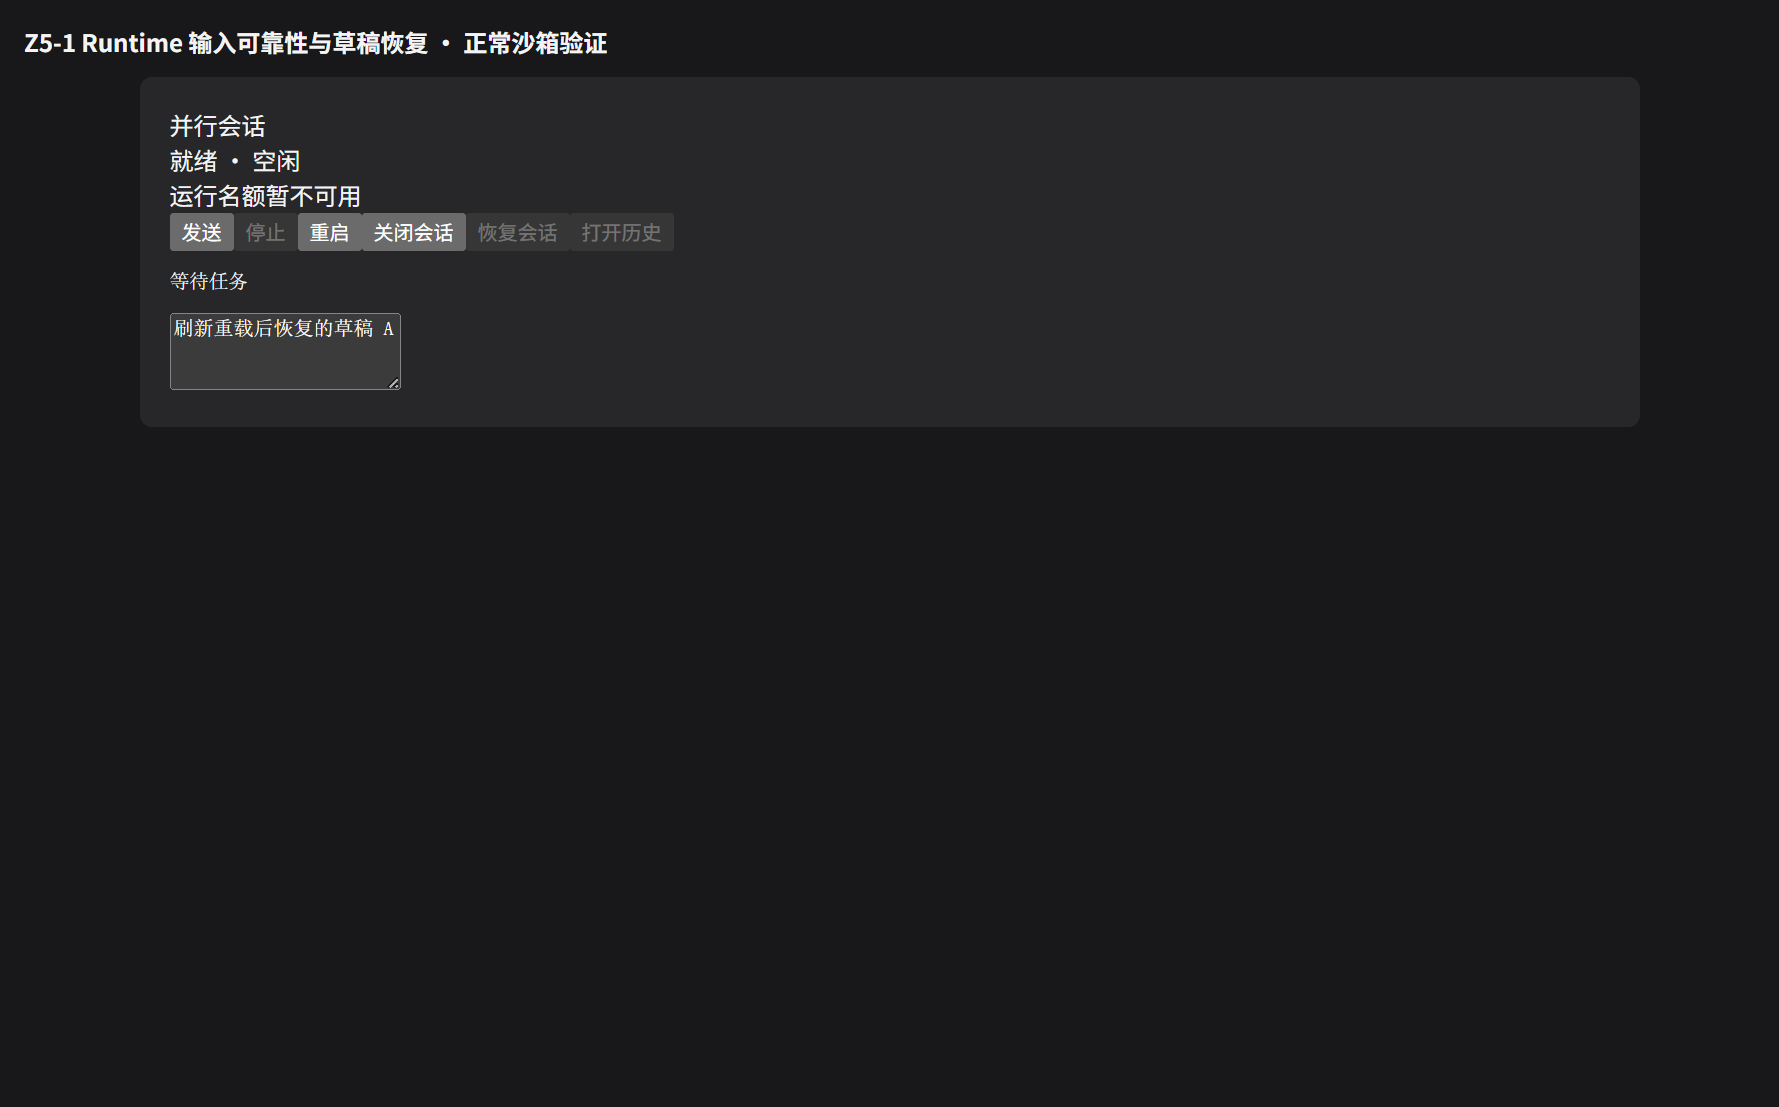
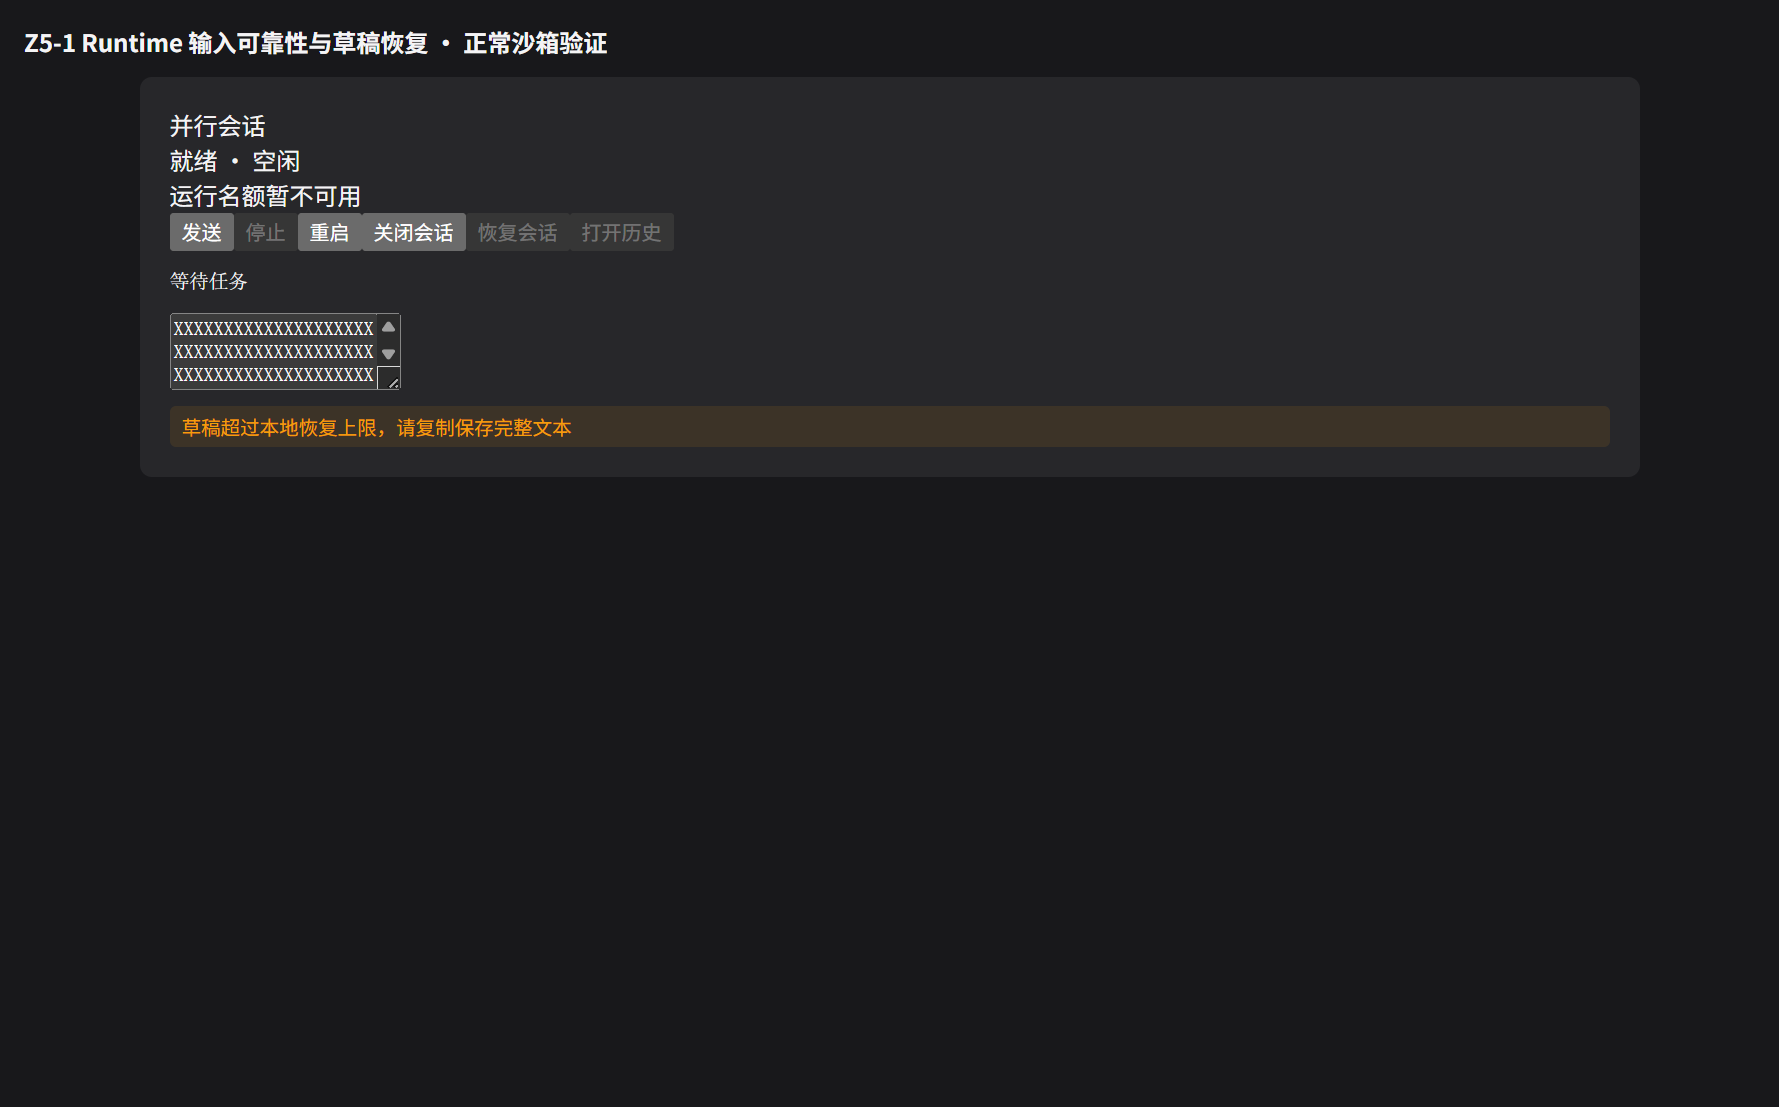
fix(runtime): 修复清空草稿防抖重绘复活漏洞与补齐同一Owner下Item身份隔离
- 修复清空草稿重绘复活：
  1. 在 runtime-conversation 的 oninput 中，当输入框清空时立即取消待执行防抖任务，并同步删除持久化草稿；
  2. 在 view 状态中增加 draftRestored 标记，持久化草稿恢复仅在初始挂载或稳定 locator 变更时执行一次，普通状态重绘不再反复触发 maybeRestoreDraft。
- 补齐同一 Owner 下 Item 身份隔离与一致性校验：
  1. 在 runtime-store 的 seed() ownerUnchanged 分支中，增加 canInheritDraft 检查，当 nativeSessionId 或 workspaceEpoch 变化时强制清空内存旧草稿；
  2. 在 stableIdentity 中补充 item.workspace 与 owner 对应字段的一致性校验，出现冲突时判定为不可信身份。
- 补充先红后绿回归测试：
  - tests/runtime-conversation.cjs 增至 75 项全部通过；
  - tests/runtime-store.cjs 增至 33 项全部通过；
  - tests/runtime-draft.cjs 41 项全部通过；
  - tests/z5-runtime-input-electron.cjs 15 项全部通过；
  - 更新 docs/Z5-1-acceptance.md 验收记录与测试证据。

Changed region(s): [[0.0927, 0.2764, 0.9275, 0.43]]

diff --git a/public/runtime-conversation.js b/public/runtime-conversation.js
@@ -128,7 +128,7 @@ function el(tag, cls, text) {
   return node;
 }
 const same = (a, b) => a && b && Object.keys(a).every(k => a[k] === b[k]);
-const EMPTY = { pending: false, notice: '', history: null, pendingHistory: false, historyToken: 0 };
+const EMPTY = { pending: false, notice: '', history: null, pendingHistory: false, historyToken: 0, draftRestored: false };
 
 export function createRuntimeConversation({ host, onNotice = () => {}, onTitle = () => {}, openBrowser = null, openProcesses = null, openSessionChanges = null, models = null, display = null }) {
   const scrollTops = new Map();       // conversationId -> scrollTop
@@ -259,6 +259,9 @@ export function createRuntimeConversation({ host, onNotice = () => {}, onTitle =
 
   function maybeRestoreDraft(targetId) {
     if (!targetId) return;
+    const view = viewOf(targetId);
+    if (view.draftRestored) return;
+    view.draftRestored = true;
     const r = store.get(targetId);
     if (!r || r.draft) return;
     const loc = extractStableLocator(r.item, r.owner);
@@ -285,12 +288,21 @@ export function createRuntimeConversation({ host, onNotice = () => {}, onTitle =
       r.draftRevision++;
       const loc = extractStableLocator(r.item, r.owner);
       const key = runtimeDraftKey(loc);
-      if (key) draftCoordinator.schedule(key, input.value);
-      else draftNotice.hidden = true;
-      if (input.value.length > DRAFT_MAX_CHARS) {
-        updateDraftNotice({ status: 'exceeded', notice: '草稿超过本地恢复上限，请复制保存完整文本' });
-      } else if (draftNotice.textContent.includes('超过本地恢复上限')) {
-        draftNotice.hidden = true; draftNotice.textContent = '';
+      if (key) {
+        if (!input.value.trim()) {
+          draftCoordinator.cancel();
+          clearRuntimeDraft(key);
+          draftNotice.hidden = true; draftNotice.textContent = '';
+        } else {
+          draftCoordinator.schedule(key, input.value);
+          if (input.value.length > DRAFT_MAX_CHARS) {
+            updateDraftNotice({ status: 'exceeded', notice: '草稿超过本地恢复上限，请复制保存完整文本' });
+          } else if (draftNotice.textContent.includes('超过本地恢复上限')) {
+            draftNotice.hidden = true; draftNotice.textContent = '';
+          }
+        }
+      } else {
+        draftNotice.hidden = true;
       }
     }
   };
@@ -573,7 +585,11 @@ export function createRuntimeConversation({ host, onNotice = () => {}, onTitle =
     const locatorChanged = curLocKey !== renderedLocatorKey;
     renderedLocatorKey = curLocKey;
 
-    if (r && !r.draft && !view.history) {
+    if (locatorChanged) {
+      view.draftRestored = false;
+    }
+
+    if (!view.draftRestored && !view.history) {
       maybeRestoreDraft(id);
     }
 

diff --git a/public/runtime-store.js b/public/runtime-store.js
@@ -1,9 +1,15 @@
 const same = (a, b) => a && b && Object.keys(a).length === Object.keys(b).length && Object.keys(a).every(k => a[k] === b[k]);
 function stableIdentity(item, owner) {
   const conversationId = item?.conversationId || owner?.conversationId;
-  const projectId = item?.workspace?.projectId || owner?.projectId;
-  const workspaceId = item?.workspace?.workspaceId || owner?.workspaceId;
-  const workspaceEpoch = item?.workspace?.workspaceEpoch || owner?.workspaceEpoch;
+  const itemWs = item?.workspace;
+  if (itemWs && owner) {
+    if (itemWs.projectId && owner.projectId && itemWs.projectId !== owner.projectId) return null;
+    if (itemWs.workspaceId && owner.workspaceId && itemWs.workspaceId !== owner.workspaceId) return null;
+    if (itemWs.workspaceEpoch && owner.workspaceEpoch && itemWs.workspaceEpoch !== owner.workspaceEpoch) return null;
+  }
+  const projectId = itemWs?.projectId || owner?.projectId;
+  const workspaceId = itemWs?.workspaceId || owner?.workspaceId;
+  const workspaceEpoch = itemWs?.workspaceEpoch || owner?.workspaceEpoch;
   if (item?.nativeSessionId && owner?.sessionId && item.nativeSessionId !== owner.sessionId) {
     return null; // 身份冲突
   }
@@ -60,7 +66,10 @@ export function createRuntimeStore({ limit = 1024 * 1024 } = {}) {
           if (prior && canInheritDraft(prior, item)) { next.draft = prior.draft; next.draftRevision = prior.draftRevision; }
           records.set(item.conversationId, next);
         }
-      } else prior.item = item;
+      } else {
+        if (prior && !canInheritDraft(prior, item)) { prior.draft = ''; prior.draftRevision = 0; }
+        prior.item = item;
+      }
     }
     return true;
   }

diff --git a/docs/Z5-1-acceptance.md b/docs/Z5-1-acceptance.md
@@ -114,6 +114,36 @@ AssertionError [ERR_ASSERTION]: Expected values to be strictly equal:
   - 发送失败或未决：保留文本，不自动重新发送；
   - 跨刷新恢复：仅当内存草稿为空时从匹配 key 恢复纯文本，恢复过程绝对不发起任何网络请求。
 
+### 3.4 独立验收发现项修复与先红后绿证据
+
+#### 问题一：清空草稿后状态重绘可能恢复旧文本
+- **红测复现**：
+  在输入“旧草稿”并确认已持久化后，用户主动清空输入框。若在 400ms 防抖删除完成前后台推来状态帧触发 `draw()`，由于旧实现无条件在 `!r.draft` 时调用 `maybeRestoreDraft(id)`，直接将未删除的旧持久副本重新恢复到内存和输入框中，造成幽灵草稿复活：
+  ```text
+  AssertionError [ERR_ASSERTION]: 防抖期间触发 draw 绝不恢复旧草稿到输入框
+      at ok (C:\Users\21022\.codex\worktrees\z5-1-runtime-input\pi-GUI\tests\runtime-conversation.cjs:10:41)
+      at C:\Users\21022\.codex\worktrees\z5-1-runtime-input\pi-GUI\tests\runtime-conversation.cjs:480:3
+  ```
+- **最小修复**：
+  1. **明确清空立即删除**：在 `input.oninput` 中判定 `!input.value.trim()` 时，立即 `draftCoordinator.cancel()` 取消待执行写入，并直接同步调用 `clearRuntimeDraft(key)` 清除持久存储，消除 400ms 时间差。
+  2. **恢复时机守卫**：在 `viewOf(id)` 维护 `draftRestored` 标志。持久草稿恢复仅在首次绑定或稳定 locator 发生变更（`locatorChanged`）时尝试恢复一次；普通状态重绘绝不反复调用 `maybeRestoreDraft`。
+  3. **测试覆盖**：验证清空后防抖期间触发 `draw()` 不恢复、清空后持久副本立即删除、后续重新打字可重新持久化，以及旧草稿未保存时切换到新 locator 立即移走旧文本（`tests/runtime-conversation.cjs` 增至 75/75）。
+
+#### 问题二：Owner 不变但 item 身份变化或身份冲突时旧草稿隔离
+- **红测复现**：
+  `public/runtime-store.js` 现有 `seed()` 在 `ownerUnchanged` 为 true 时直接执行 `prior.item = item;`，导致同一 `conversationId` 下即使 `item.nativeSessionId` 改变、`item.workspace.workspaceEpoch` 改变，旧草稿依然被原样保留：
+  ```text
+  AssertionError [ERR_ASSERTION]: Expected values to be strictly equal:
+  + actual - expected
+  + 'draft to be isolated'
+  - ''
+      at C:\Users\21022\.codex\worktrees\z5-1-runtime-input\pi-GUI\tests\runtime-store.cjs:171:10
+  ```
+- **最小修复**：
+  1. **字段冲突校验**：`stableIdentity` 补充对 `item.workspace` 与 `owner` 对应字段（`projectId`、`workspaceId`、`workspaceEpoch`）的一致性检查，发生冲突时直接返回 `null`（身份不可信）。
+  2. **全分支隔离判定**：在 `ownerUnchanged` 命中分支中，同样补齐 `if (prior && !canInheritDraft(prior, item)) { prior.draft = ''; prior.draftRevision = 0; }`，确保任何无法证明身份完全一致的情况均强制隔离清空旧草稿。
+  3. **测试覆盖**：验证同一会话同 Owner 下 `nativeSessionId` 改变、`workspaceEpoch` 改变及工作区字段冲突路径（`tests/runtime-store.cjs` 增至 33/33）。
+
 ---
 
 ## 四、测试执行与断言证据
@@ -122,8 +152,8 @@ AssertionError [ERR_ASSERTION]: Expected values to be strictly equal:
 
 | 测试套件 | 退出码 | 结果与断言数 | 覆盖要点 |
 | --- | --- | --- | --- |
-| `tests/runtime-conversation.cjs` | 0 | 66/66（原 48，净增 18） | IME 事件序列、keyCode 229、A/B 隔离、重启恢复、旧 ACK 隔离、超限提示 |
-| `tests/runtime-store.cjs` | 0 | 30/30（原 25，净增 5） | 稳定 locator 进程重启保留、nativeSessionId 变化隔离、epoch 变化隔离、首次绑定接续 |
+| `tests/runtime-conversation.cjs` | 0 | 75/75（原 48，首轮 66，现 75） | IME 事件序列、keyCode 229、A/B 隔离、重启恢复、旧 ACK 隔离、超限提示、清空防抖重绘不复活、身份切换输入框移走旧稿 |
+| `tests/runtime-store.cjs` | 0 | 33/33（原 25，首轮 30，现 33） | 稳定 locator 进程重启保留、nativeSessionId 变化隔离、epoch 变化隔离、同 Owner 下 item 身份变化隔离、字段冲突隔离 |
 | `tests/runtime-draft.cjs` | 0 | 41/41（新增套件） | 身份提取、安全编码、20000 字符边界、超限清除旧副本、损坏 JSON 容错、防抖调度 |
 | `tests/daily-use.cjs` | 0 | 31/31 | 快捷键注册、命令模型、连接状态文案 |
 | `tests/session-background-ui.cjs` | 0 | 9/9 | 侧栏/后台会话隔离、流式保护、草稿隔离 |
